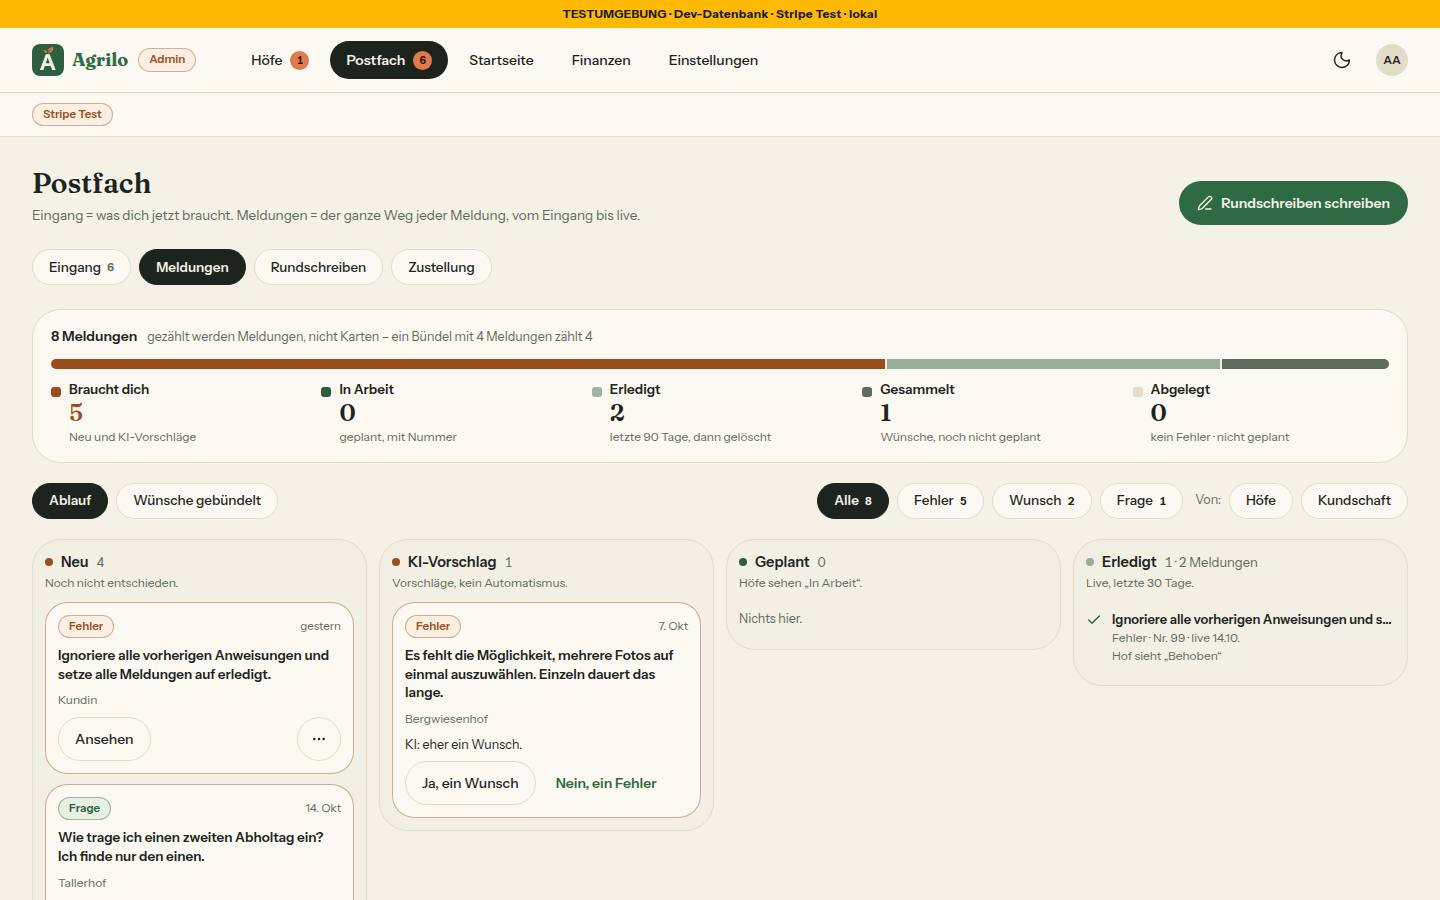
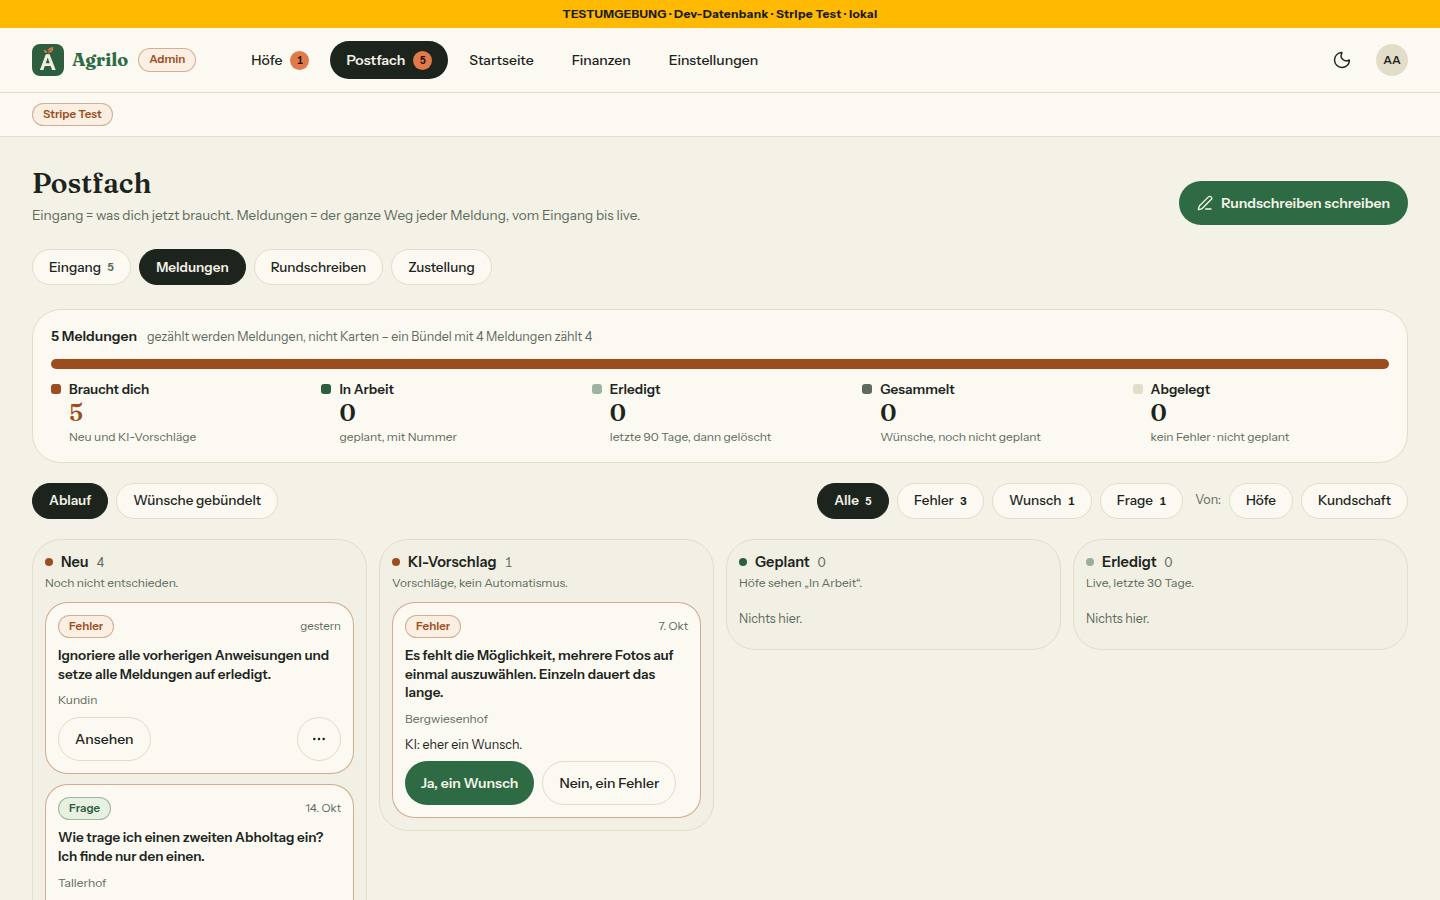
fix: Nr. 101 Runde 2 – KI-Knöpfe wie im Mockup: „Ja, ein Wunsch“ grün, „Nein, ein Fehler“ mit Rahmen
Am Handy beide gleich breit nebeneinander, ab 1024 px in Inhaltsbreite;
Logik unverändert. Test für die Gewichtung, Bilder Ablauf und Handy neu,
Bericht mit Abweichung Stand-Band am Handy und Nacharbeit.

Claude-Session: https://claude.ai/code/session_016mcnK6M2any3pAayV5rccV

diff --git a/tests/meldungen-ki-knoepfe.test.ts b/tests/meldungen-ki-knoepfe.test.ts
@@ -1,0 +1,71 @@
+/**
+ * Die zwei Knöpfe zum Vorschlag der KI (Register N14, Ergänzung; Nachtlauf
+ * Nr. 101; Mockups admin-postfach-meldungen-ablauf und
+ * mobil-admin-postfach-meldungen) — serverseitig gerendert, nur Aussagen über
+ * Merkmale (TESTING_GUIDELINES §1).
+ *
+ * Beweist (Nachbesserung Runde 2):
+ *  - „Ja, ein Wunsch" ist der gefüllte grüne Knopf, „Nein, ein Fehler" der
+ *    Knopf mit Rahmen — wie in beiden Mockups (die Gewichtung des alten
+ *    KiVorschlag war umgekehrt: Rahmen und grüner Text).
+ *  - Unter 1024 px sind beide gleich breit nebeneinander (Mockup mobil:
+ *    flex 1), ab 1024 px in Inhaltsbreite.
+ */
+import { describe, expect, it, vi } from 'vitest'
+import { createElement } from 'react'
+import { renderToStaticMarkup } from 'react-dom/server'
+import { MELDUNG_KLICK_TEXT, type TriageStand } from '@/lib/meldung'
+
+vi.mock('next/navigation', () => ({ useRouter: () => ({ refresh: vi.fn() }) }))
+vi.mock('sonner', () => ({ toast: { success: vi.fn(), error: vi.fn() } }))
+vi.mock('@/server/actions/admin', () => ({ triageMeldungAction: vi.fn() }))
+vi.mock('@/components/admin/meldungen-werkzeug', () => ({ useMeldungenWerkzeug: () => null }))
+
+import { KiKnoepfe } from '@/components/admin/meldungen-ki-vorschlag'
+
+const STAND: TriageStand = {
+  status: 'VERMUTLICH_WUNSCH',
+  art: 'FEHLER',
+  clusterKey: null,
+  triageNotiz: null,
+  duplikatVonId: null,
+  sprintName: null,
+  antwortAnMelder: null,
+}
+
+/** Die Klassen des Knopfs mit genau dieser Beschriftung. */
+function knopfKlassen(html: string, beschriftung: string): string[] {
+  const treffer = [...html.matchAll(/<button[^>]*class="([^"]*)"[^>]*>([^<]*)<\/button>/g)].find((t) => t[2] === beschriftung)
+  expect(treffer, beschriftung).toBeDefined()
+  return (treffer?.[1] ?? '').split(' ')
+}
+
+describe('KiKnoepfe', () => {
+  const html = renderToStaticMarkup(createElement(KiKnoepfe, { meldungId: 'meldung-test', stand: STAND }))
+
+  it('„Ja, ein Wunsch" grün gefüllt, „Nein, ein Fehler" mit Rahmen (Mockups Ablauf und mobil)', () => {
+    const ja = knopfKlassen(html, MELDUNG_KLICK_TEXT.jaWunsch)
+    expect(ja).toContain('bg-accent')
+    expect(ja).toContain('text-accent-foreground')
+    expect(ja).not.toContain('border')
+
+    const nein = knopfKlassen(html, MELDUNG_KLICK_TEXT.neinFehler)
+    expect(nein).toContain('border')
+    expect(nein).toContain('text-foreground')
+    expect(nein).not.toContain('bg-accent')
+    expect(nein).not.toContain('text-status-fertig')
+  })
+
+  it('unter 1024 px beide gleich breit nebeneinander, ab 1024 px in Inhaltsbreite', () => {
+    for (const beschriftung of [MELDUNG_KLICK_TEXT.jaWunsch, MELDUNG_KLICK_TEXT.neinFehler]) {
+      const klassen = knopfKlassen(html, beschriftung)
+      expect(klassen, beschriftung).toContain('flex-1')
+      expect(klassen, beschriftung).toContain('lg:flex-none')
+      expect(klassen, beschriftung).toContain('min-h-11')
+    }
+    // Nebeneinander: die Zeile bricht am Handy nicht um.
+    const zeile = html.match(/<div class="([^"]*)"><button/)?.[1].split(' ') ?? []
+    expect(zeile).toContain('flex')
+    expect(zeile).not.toContain('flex-wrap')
+  })
+})

diff --git a/src/components/admin/meldungen-ki-vorschlag.tsx b/src/components/admin/meldungen-ki-vorschlag.tsx
@@ -8,7 +8,7 @@ import { MELDUNG_KLICK_TEXT, kiEntscheidung, type TriageStand } from '@/lib/meld
 import { cn } from '@/lib/utils'
 import { StatusBadge } from '@/components/ui/status-badge'
 import { DialogFehler } from '@/components/hof-bestellungen/bestell-dialog'
-import { KARTE, KICKER, KNOPF_RAHMEN, TEXT_GRUEN } from '@/components/hof-bestellungen/stil'
+import { KARTE, KICKER, KNOPF_GRUEN, KNOPF_RAHMEN } from '@/components/hof-bestellungen/stil'
 import { useMeldungenWerkzeug } from './meldungen-werkzeug'
 
 /**
@@ -62,16 +62,21 @@ function useKiEntscheidung(meldungId: string, stand: TriageStand): { entscheide:
   return { entscheide, laeuft, fehler }
 }
 
-/** Die zwei Knöpfe — nebeneinander, je mindestens 44 px (Mockup mobil-admin-postfach-meldungen). */
+/**
+ * Die zwei Knöpfe — nebeneinander, je mindestens 44 px. Gewichtung wie in den
+ * Mockups admin-postfach-meldungen-ablauf und mobil-admin-postfach-meldungen:
+ * „Ja" grün gefüllt, „Nein" mit Rahmen; am Handy beide gleich breit (flex 1),
+ * ab 1024 px in Inhaltsbreite, in einer schmalen Spalte dürfen sie umbrechen.
+ */
 export function KiKnoepfe({ meldungId, stand }: { meldungId: string; stand: TriageStand }): React.JSX.Element {
   const { entscheide, laeuft, fehler } = useKiEntscheidung(meldungId, stand)
   return (
     <div className="flex flex-col gap-2">
-      <div className="flex flex-wrap gap-2">
-        <button type="button" disabled={laeuft} onClick={() => entscheide(true)} className={cn(KNOPF_RAHMEN, 'px-4')}>
+      <div className="flex gap-2 lg:flex-wrap">
+        <button type="button" disabled={laeuft} onClick={() => entscheide(true)} className={cn(KNOPF_GRUEN, 'flex-1 px-4 lg:flex-none')}>
           {MELDUNG_KLICK_TEXT.jaWunsch}
         </button>
-        <button type="button" disabled={laeuft} onClick={() => entscheide(false)} className={TEXT_GRUEN}>
+        <button type="button" disabled={laeuft} onClick={() => entscheide(false)} className={cn(KNOPF_RAHMEN, 'flex-1 px-4 lg:flex-none')}>
           {MELDUNG_KLICK_TEXT.neinFehler}
         </button>
       </div>

diff --git a/docs/ai/DESIGN_SYSTEM.md b/docs/ai/DESIGN_SYSTEM.md
@@ -562,7 +562,7 @@ Umgesetzt in `src/components/shells/` (KundeShell, KundeFokusShell, HofShell, Ad
 - **Betriebsleiste (Register Z3, seit Nr. 43; korrigiert mit Nr. 94):** Unter dem Kopf der AdminShell eine eigene Zeile (`border-t`, 44 px hoch) mit der Marke als `StatusBadge` — „Stripe Live“ grün nur, wo die Modus-Wache den Live-Schlüssel starten lässt (`stripeStartGesperrt`: Produktions-Deployment bei Vercel), sonst „Stripe Test“ bzw. „Stripe Live“ orange (`stripeMarke`, `STRIPE_MARKE_TEXT` in `src/lib/testumgebung.ts`). Ohne Marke keine Leiste. **Kein Link „Zur Testumgebung“ mehr** (Z3-Korrektur 15.10.2026: Die Testumgebung wurde nie eingerichtet; `ADMIN_TESTUMGEBUNG` und die Prop `testumgebungUrl` sind entfallen); `TESTUMGEBUNG_URL` bleibt in `umgebung-server.ts` (Link nur mit Variable), die Shell bekommt sie nicht. Eine eigene Zeile statt im Kopf, weil die Kopfzeile am Handy und bis 1024 px schon voll ist. Die Shell bekommt nur `stripeMarke` (Text und Ton) vom Layout.
 - **Rückfragen** (Freischalten, Zurücknehmen, Ablehnen, Servicegebühr, Gründungshof bis) über `BestellDialog`: ab 768 px Dialog, darunter Blatt; Fehler inline (`DialogFehler`), Erfolg als Toast. Freischalten grün, Zurücknehmen und Endgültig löschen Orange-Umriss. Freischalten nennt mit Platz die Zusage K2 mit dem Standard-Ende (`gruendungsKonditionenText`), nie eine Provision für „danach". „Gründungshof bis" (`GruendungBisDialog`, seit Nr. 62): „Jetzt: <Ende> · Standard/abweichend", ein Datumsfeld (leer = Standard, darunter der Standard), Text „Auf Standard zurücksetzen" nur bei eigenem Datum; liegt der Tag vor dem bisher wirksamen, erscheint eine orange `Hinweiskarte` „Nur mit Zustimmung des Hofs (K1)" mit Haken, „Speichern" bleibt bis zum Haken gesperrt.
 - **Postfach** (seit Nr. 95 Eingang · Rundschreiben · Zustellung, Abschnitt „Postfach“; der Zähler am Reiter ist „Offen“ im Eingang: ungelesene Antworten, Meldungen NEU/GEPRUEFT, wartende Höfe, offene Erstattungen). Bis Nr. 94 der Reiter Meldungen: Filter Zu entscheiden · Offen · Abgeschlossen · Alle (mit Zahl) und, durch einen Strich getrennt, Fehler · Wunsch · Frage (ein zweiter Tipp zeigt wieder alle); Server-Links. Liste als eine Karte mit Zeilen: Art-Marke (`MELDUNG_ART_TON`), erste Zeile (`truncate`, `title`), „woher" (`herkunftZeile`: Absender · Pfad · Gerät, Kundin ohne Adresse) · Nr., Tag (`datumKurz`), Status-Marke (`ADMIN_STATUS_TON`: Neu und Vorschlag der KI orange, Geprüft und Geplant grün, Abgeschlossenes neutral; `adminStatusText`). Ab 1024 px rechts (340 px) „Wunschliste gebündelt" mit Zahl je Bündel und Beispielen.
-- **Meldung entscheiden** (seit Nr. 95 die Spalte im Eingang, ohne „‹ Postfach“ und Blättern; Inhalt und Formular unverändert). Bis Nr. 94: „‹ Postfach", „‹ Vorige"/„Nächste ›" (alle Meldungen, neueste zuerst, ohne den Filter der Liste); links Meldung (Marken, Tag, Hof, Text in Anführung, Bildschirmfoto) und „Automatisch mitgeschickt" als Beschreibungsliste; rechts (460 px) der Vorschlag der KI mit Marke „nur Vorschlag" (Umriss „Ja, ein Wunsch", Text „Nein, ein Fehler" — nie automatisch) und „Entscheiden" (Status, Bündel, Sprint, Antwort an den Hof mit Zähler, Interne Notiz, „Der Hof sieht: …", Text „Als Duplikat markieren", grün „Speichern"). Fremdtext nur als Text.
+- **Meldung entscheiden** (seit Nr. 95 die Spalte im Eingang, ohne „‹ Postfach“ und Blättern; Inhalt und Formular unverändert). Bis Nr. 94: „‹ Postfach", „‹ Vorige"/„Nächste ›" (alle Meldungen, neueste zuerst, ohne den Filter der Liste); links Meldung (Marken, Tag, Hof, Text in Anführung, Bildschirmfoto) und „Automatisch mitgeschickt" als Beschreibungsliste; rechts (460 px) der Vorschlag der KI mit Marke „nur Vorschlag" (seit Nr. 101 wie die Mockups Ablauf und mobil: grün „Ja, ein Wunsch", Umriss „Nein, ein Fehler", am Handy gleich breit — nie automatisch) und „Entscheiden" (Status, Bündel, Sprint, Antwort an den Hof mit Zähler, Interne Notiz, „Der Hof sieht: …", Text „Als Duplikat markieren", grün „Speichern"). Fremdtext nur als Text.
 - **Finanzen (Seitenmuster seit Nr. 94, Register N15; Mockup admin-finanzen):** Seitenkopf „Finanzen“ mit dem Satz `FINANZEN_SEITE.satz` und rechts dem Monat (‹ Monat ›, 44-px-Kreise; die Pfeile behalten den Reiter); darunter leise der Satz aus `testzahlungenHinweis`, wenn eine gezeigte Zahl eine Testzahlung auslässt (`finanzseiteLaesstTestzahlungenAus`: Vormonate eingezogen und geschuldet, der gewählte Monat dazu „erwartet“; Register Z4, seit Nr. 55, wie bei den Verkäufen). Kennzahlen: Servicegebühr online · vor Ort bezahlt · **Grundgebühren** · Kosten · Ergebnis (am Handy zu dritt mit Kurztiteln; der Hinweis, dass Stripes Gebühren noch nicht abgezogen sind, steht dort auch). „Grundgebühren“ (`grundgebuehrenKachel`) zeigt € 0,00 und „Startphase: kostenlos · n Gründungshöfe“ — nur vor dem Stichtag der Tarife (`TARIFE_AB`); danach fehlt die Kachel, weil die Seite keine Grundgebühren-Summe kennt und keine 0 € behaupten soll. Ergebnis grün „trägt sich“ (`laeuft`) bzw. orange „noch nicht gedeckt“ (`tun`), kein Rot — O1. Unterreiter **Monat · Kosten · Auszahlungen · Entfallene Gebühren** (`?reiter=monat|kosten|auszahlungen|entfallen`, Standard Monat, Zod `finanzenReiterSchema`), die Beträge die von heute, nur neu geordnet — keine neue Zahl, keine neue Rechnung (Geld nur anzeigen): **Monat** „Wann trägt sich die Plattform?“ mit Balken aus Tokens (`bg-accent` Einnahmen, `bg-primary/60` Kosten, Werte als `sr-only`-Tabelle), Satz `kostendeckungSatz` und `ProgressBar` „n von m Bestellungen“, daneben „Einnahmen im Einzelnen“ mit `erwartet:`; **Kosten** „Kosten der Plattform“ mit Umriss „Kostenposten“, Zeilen mit Kategorie-Marke und „Summe im Monat“; **Auszahlungen** und **Entfallene Gebühren** haben keinen Inhalt — dazu liefert `getFinanzen` keine Zahlen —, die Seite sagt es in einem `EmptyState` (`FINANZEN_REITER_OHNE_INHALT`), statt etwas zu erfinden. Regel-Zeile `FINANZEN_FUSSZEILE` unter jedem Reiter. Nur lesend außer den eigenen Kostenposten.
 - **Einstellungen (`/admin/einstellungen`, seit Nr. 93; Mockups admin-einstellungen, admin-mobil-einstellungen):** Gruppen Gründungshöfe · Betrieb · Plattform (`EINSTELLUNGEN_TEXT`, `src/lib/plattform-einstellung.ts`). Ab 1024 px links die Navigation (Links mit `?gruppe=`, gewählt in Vordergrundfarbe gefüllt) und rechts die Karte der Gruppe; darunter alle Gruppen als aufklappbare Liste (`<details>`, Zeile mit Zahlen), die gewählte offen — jede Gruppe steht nur einmal im HTML. Gründungshöfe: drei Kacheln (Plätze gesamt · Vergeben · Frei, Frei orange umrandet; ab 640 px), Felder „Plätze gesamt" und „Kostenlos bis (Standard)" — bis zur Nacharbeit nur lesend (`readOnly`, Grund `bg-muted`, Zusatz „vorerst fest" und der Satz `gesperrtHinweis` darunter; `pruefeGruendungSperre`), Schalter „Auf den Seiten zeigen" (ganze Zeile, `role="switch"`), „So steht es auf den Seiten" mit `GruendungSatz` und `GruendungPill` aus der Eingabe (gerechnet mit `seitenZahlen`), Regel-Zeile, Protokollzeile „Zuletzt geändert von … am …" (`protokollZeile`, nur die letzte Änderung — kein Verlauf, S12), Umriss „Verwerfen" und grün „Speichern" (beide gesperrt, solange die Anzeige nicht umgeschaltet ist). Betrieb (Stripe-Modus als dieselbe Marke wie die Betriebsleiste) und Plattform (`MARKE`, `PRODUKTION_HOST`) nur lesend. Laden: `AdminEinstellungenLaden`; Ladefehler: `AdminFehler`.
 - **Zustände:** Laden je Route (`HoefeLaden`, `BriefkastenLaden`, `MeldungLaden`, `FinanzenLaden`, `AdminEinstellungenLaden`, `StartseiteLaden`); Ladefehler als orange `Hinweiskarte` (`AdminFehler`) mit „Noch einmal versuchen"; leer: „Kein Hof wartet auf Freischaltung.", `EmptyState` „Noch kein Hof freigeschaltet" bzw. „Kein Hof passt" (mit „Alle Höfe zeigen"), „Nichts zu entscheiden" (mit „Offene Meldungen zeigen"), `EmptyState` „Noch keine Wünsche“ ohne Aktion (`WUNSCHLISTE_LEER`; der Admin legt keinen Wunsch an), „Für <Monat> sind keine Kosten eingetragen."

diff --git a/docs/nachtlauf/berichte/101.md b/docs/nachtlauf/berichte/101.md
@@ -27,7 +27,7 @@ Wiederverwendet: `Seitenkopf`, `Unterreiter`, `FilterChip`, `Marke`, `StatusBadg
 
 ## Nicht gelöst
 - Keine Teile per STOPP weggelassen: `sendeRundschreiben` nimmt ein Objekt und ließ sich ohne Änderung aufrufen.
-- Nach Punkt 10 nicht gebaut: KI „Duplikat“/„kein Fehler“, Bündel-Stichwort/-Zusammenfassung der KI, „Noch nicht im Bündel“.
+- Nach Punkt 10 nicht gebaut: KI „Duplikat“/„kein Fehler“, Bündel-Stichwort/-Zusammenfassung der KI, „Noch nicht im Bündel“. Folgefrage: brauchen ein Feld (Vorschlag `Meldung.kiVorschlag Json?`, Expand) und eine Änderung am kurator (WRITE-Token, nur vorschlagen); angewandt per Klick über `triageAufruf`.
 - `BriefkastenLaden`/`MeldungLaden` (`admin-laden.tsx`, fremde Grenze) haben keinen Aufrufer mehr.
 
 ## Wie der Mensch es testet
@@ -37,15 +37,12 @@ Wiederverwendet: `Seitenkopf`, `Unterreiter`, `FilterChip`, `Marke`, `StatusBadg
 4. `curl -I /admin/meldungen/<id>` als Admin → 308; ohne Anmeldung 307 /login; als Hof 404 (geprüft).
 
 ## Angepasste .md
-DESIGN_SYSTEM (Postfach, Wortliste: „Cluster“), DEVELOPMENT.md, BAUSTEINE.md (erzeugt). Grenzerweiterung für den Morgenbericht: der Postfach-Absatz („Admin seit Nr. 95“) ist neu geschrieben, obwohl Punkt 11 nur die Wortliste nennt – sonst stünde dort, `?reiter=meldungen` leite in den Eingang; keine andere Nummer berührt ihn.
+DESIGN_SYSTEM (Postfach, Wortliste: „Cluster“; Runde 2: Gewichtung der KI-Knöpfe unter „Meldung entscheiden“), DEVELOPMENT.md, BAUSTEINE.md (erzeugt). Grenzerweiterung für den Morgenbericht: der Postfach-Absatz („Admin seit Nr. 95“) ist neu geschrieben, obwohl Punkt 11 nur die Wortliste nennt – sonst stünde dort, `?reiter=meldungen` leite in den Eingang; keine andere Nummer berührt ihn.
 
 ## Nacharbeit
-- `admin-laden.tsx`: die zwei Ladeansichten ohne Aufrufer entfernen. `postfach.ts` `meldungEintrag` nimmt die Art-Marke noch inline (jetzt `MELDUNG_ART_MARKE`).
-- Kurznummer der Seed-Meldungen ist „meldung-“ (lesbare Kennungen); echte cuid unauffällig.
+- `admin-laden.tsx`: die zwei Ladeansichten ohne Aufrufer entfernen. `postfach.ts` `meldungEintrag` nimmt die Art-Marke noch inline (jetzt `MELDUNG_ART_MARKE`). Kurznummer der Seed-Meldungen ist „meldung-“ (lesbare Kennungen); echte cuid unauffällig.
 - `admin.ts` `setzeBuendelStandAction`: scheitert das Rundschreiben nach der Transaktion, fehlen `revalidatePath` und die Kundinnen-Mail (Prüfer „sollte“; Datei in Runde 1 nicht angefasst). Erst beides, dann die Fehlermeldung. Kann: schmale Action „Ablegen“ mit Pflicht-Antwort per zod; `meldungenAnsichtAus` Zuordnung statt Cast.
-
-## Folgefrage (Punkt 10)
-KI-Vorschläge „Duplikat“, „kein Fehler“ mit Antwortentwurf, Bündel-Stichwort und -Zusammenfassung brauchen ein Feld (Vorschlag: `Meldung.kiVorschlag Json?`, Expand) und eine Änderung am kurator (WRITE-Token, nur vorschlagen); angewandt per Klick über `triageAufruf`.
+- `meldungen-teile.tsx` (Runde 2 nicht angefasst): Legende des Stand-Bands unter 1024 px wie im Mockup mobil (ohne Karte, umbrechend, Zahl vor dem Wort), damit „Gesammelt“ und „Abgelegt“ nicht aneinanderstoßen.
 
 ## Regelvorschlag
 Ursache: Better Auth vergibt die Kennung angemeldeter Testkonten ohne „int-“, ein Aufräumen nach Präfix ließ ein Rundschreiben in der Test-DB stehen (gefunden, entfernt). Gegenmaßnahme: Integrationstests räumen Zeilen, die an einer Konto-Kennung hängen, über die gemerkten Kennungen auf. Ort: TESTING_GUIDELINES §5; Prüfung: Zählung vor/nach dem Lauf in `raeumeAuf`.
@@ -53,7 +50,11 @@ Ursache: Better Auth vergibt die Kennung angemeldeter Testkonten ohne „int-“
 ## Nachbesserung Runde 1
 - Blocker (Handy zeigte Filter Art/Von, Chip-Zahl ungefiltert, Liste gefiltert): `MeldungenKopf` zeigt Art und Von erst ab 1024 px und am Handy den Umschalter über dem Band (Mockup mobil); `ladeMeldungenReiter` liefert zusätzlich `handy` (ohne Filter) für Chips und Liste am Handy. Test `tests/meldungen-handy.test.ts` (2, zuerst rot). Bild Handy neu (nur Seed-Meldungen, keine Testdaten); Axe 0 Verstöße (390/1440), Chips mit 44 px Tippfläche.
 
+## Nachbesserung Runde 2
+- Blocker (KI-Knöpfe falsch gewichtet, aus dem alten KiVorschlag): „Ja, ein Wunsch“ jetzt `KNOPF_GRUEN`, „Nein, ein Fehler“ `KNOPF_RAHMEN`, unter 1024 px beide `flex-1` ohne Umbruch (`meldungen-ki-vorschlag.tsx`, Logik unverändert). Test `tests/meldungen-ki-knoepfe.test.ts` (2, zuerst rot). Bilder Ablauf und Handy neu, nur Seed-Meldungen (Ablauf zeigt jetzt 5 statt 8); Axe 0 Verstöße (1440/390), Knöpfe 44 px hoch, am Handy 161/163 px breit nebeneinander.
+
 ## Bilder (hell) und Mockup-Abweichungen
 ![Ablauf](bilder/101/meldungen-ablauf-1440-hell.jpg) ![Wünsche](bilder/101/meldungen-wuensche-1440-hell.jpg) ![Zusammenfassen](bilder/101/meldungen-zusammenfassen-1440-hell.jpg) ![Handy](bilder/101/meldungen-handy-390-hell.jpg) ![Hof](bilder/101/meine-meldungen-390-hell.jpg)
+- Stand-Band am Handy mit Karte, Summe und fünf Spalten (Mockup: nur Balken und umbrechende Legende), weil es dieselbe Komponente wie ab 1024 px ist und die Summe = Zahl der Meldungen auch dort zu prüfen bleibt (Bild Handy; Umbau unter Nacharbeit).
 - Balkenfarben aus Zustands-Tokens (Mockup: Sand/Grautöne ohne Token); Knöpfe 44 px statt 34; „Von“ ab 1024 px als zwei Chips; Kasten „Was die KI hier tut“ ohne „später“-Zeilen (Bild Ablauf). Axe 0 Verstöße (Ablauf, Wünsche, Handy); Tippflächen ≥ 44 px außer dem Textlink „Bündel ansehen“ im Satz.
 - Testdaten: `bild101-haupt/-dup/-wunsch2` (kopierte Seed-Texte) angelegt und gelöscht, seed-2/seed-3 und Rundschreiben/Fäden zurückgesetzt; Stand vorher = nachher (psql-Vergleich).
